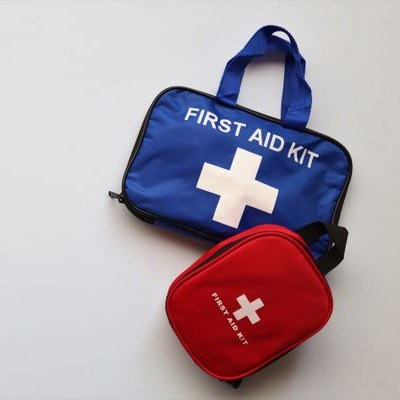
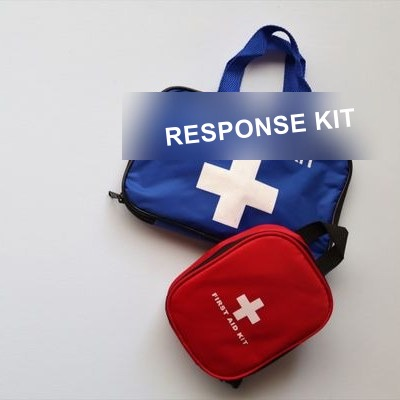
Switch landing/wheel headlines to bold sans, fix prize photo labels
Headlines across the landing page and prize wheel now use the app's own
sans-serif body font at heavy weight instead of the serif display font, to
match the approved reference design. Also corrects the response-kit bag's
printed label (was "First Aid Kit") and replaces the AEDSmartX subscription
photo, which had garbled AI-generated text, with a clean mockup.

Changed region(s): [[0.3, 0.21, 0.93, 0.42]]

diff --git a/app/globals.css b/app/globals.css
@@ -120,7 +120,7 @@ button { font-family: inherit; }
 
 .landing-eyebrow { font-size: .75rem; font-weight: 700; text-transform: uppercase; letter-spacing: .16em; color: var(--structure); }
 .landing-eyebrow.dark { color: var(--structure); }
-.landing-h2 { font-size: clamp(1.65rem, 3.2vw, 2.2rem); margin-top: 8px; letter-spacing: -0.01em; }
+.landing-h2 { font-family: var(--font-body); font-weight: 800; font-size: clamp(1.65rem, 3.2vw, 2.2rem); margin-top: 8px; letter-spacing: -0.02em; }
 .landing-section-inner { max-width: 1240px; margin: 0 auto; padding: 84px clamp(18px, 4vw, 48px); text-align: center; }
 
 /* ---------- Landing: sticky header ---------- */
@@ -156,7 +156,7 @@ button { font-family: inherit; }
   gap: clamp(32px, 4vw, 64px); padding: clamp(44px, 6vw, 88px) clamp(18px, 4vw, 48px) clamp(40px, 5vw, 72px);
 }
 .landing-hero-copy { flex: 1 1 460px; min-width: 0; text-align: left; }
-.landing-h1 { font-size: clamp(2.2rem, 5.4vw, 4.5rem); line-height: 1.04; max-width: 17ch; margin-top: 20px; color: var(--ink); letter-spacing: -0.02em; }
+.landing-h1 { font-family: var(--font-body); font-weight: 800; font-size: clamp(2.2rem, 5.4vw, 4.5rem); line-height: 1.04; max-width: 17ch; margin-top: 20px; color: var(--ink); letter-spacing: -0.02em; }
 .landing-lead { color: var(--ink-soft); font-size: 1.1rem; max-width: 52ch; margin: 22px 0 0; line-height: 1.65; }
 .landing-hero-cta-row { display: flex; flex-wrap: wrap; align-items: center; gap: 16px; margin: 30px 0 0; }
 .landing-hero-microcopy { font-size: .88rem; line-height: 1.4; color: var(--ink-soft); }
@@ -186,7 +186,7 @@ button { font-family: inherit; }
 .landing-gift-card-head { display: flex; align-items: center; justify-content: space-between; gap: 12px; }
 .landing-gift-card-label { font-size: .72rem; font-weight: 700; letter-spacing: .14em; text-transform: uppercase; color: var(--accent-deep); }
 .landing-gift-card-meta { font-size: .72rem; font-weight: 600; color: var(--ink-soft); font-variant-numeric: tabular-nums; }
-.landing-gift-card-tagline { font-family: var(--font-display); font-size: 1.35rem; line-height: 1.35; text-align: center; margin: 20px 0 0; color: var(--ink); }
+.landing-gift-card-tagline { font-family: var(--font-body); font-weight: 800; font-size: 1.35rem; line-height: 1.35; letter-spacing: -0.01em; text-align: center; margin: 20px 0 0; color: var(--ink); }
 .landing-gift-card-thumbs { display: flex; justify-content: center; gap: 8px; margin: 18px 0 0; }
 .landing-gift-card-thumbs img { width: 52px; height: 52px; object-fit: cover; border-radius: 12px; border: 1px solid var(--line); }
 .landing-gift-card-footer {
@@ -265,7 +265,7 @@ button { font-family: inherit; }
   display: inline-grid; place-items: center; width: 40px; height: 40px; border-radius: 12px;
   background: var(--structure-tint); color: var(--structure); font-weight: 700; font-size: .94rem; font-variant-numeric: tabular-nums;
 }
-.landing-how-step h3 { font-family: var(--font-display); font-weight: 500; font-size: 1.35rem; line-height: 1.3; margin: 18px 0 0; }
+.landing-how-step h3 { font-family: var(--font-body); font-weight: 800; font-size: 1.2rem; line-height: 1.3; letter-spacing: -0.01em; margin: 18px 0 0; }
 .landing-how-step p { color: var(--ink-soft); font-size: .92rem; line-height: 1.6; margin: 10px 0 0; }
 /* Step 3 doubles as the gift teaser — same shell as its siblings, warmed
    with the accent tint and a small "Your gift" flag, rather than a
@@ -313,7 +313,7 @@ button { font-family: inherit; }
   display: inline-grid; place-items: center; width: 40px; height: 40px; border-radius: 12px;
   background: var(--accent-tint); color: var(--accent-deep); font-weight: 700; font-size: .94rem; font-variant-numeric: tabular-nums;
 }
-.landing-card h3 { font-family: var(--font-display); font-weight: 500; font-size: 1.3rem; line-height: 1.3; margin: 18px 0 0; }
+.landing-card h3 { font-family: var(--font-body); font-weight: 800; font-size: 1.15rem; line-height: 1.3; letter-spacing: -0.01em; margin: 18px 0 0; }
 .landing-card p { color: var(--ink-soft); font-size: .92rem; line-height: 1.6; margin: 10px 0 0; }
 
 /* ---------- Landing: closing CTA (copy + gift-voucher ticket) ---------- */
@@ -346,7 +346,7 @@ button { font-family: inherit; }
   font-size: .68rem; font-weight: 700; color: #fff; background: var(--accent); padding: 3px 9px; border-radius: 999px;
   font-variant-numeric: tabular-nums;
 }
-.landing-voucher-title { font-family: var(--font-display); font-size: 1.6rem; line-height: 1.3; margin: 12px 0 0; color: var(--ink); }
+.landing-voucher-title { font-family: var(--font-body); font-weight: 800; font-size: 1.4rem; line-height: 1.3; letter-spacing: -0.01em; margin: 12px 0 0; color: var(--ink); }
 /* The rule bleeds edge-to-edge, and the two notches punched into the
    card's own left/right edges at that same height are what sell it as a
    torn-off ticket stub rather than just a card with a dashed line on it —
@@ -495,7 +495,7 @@ button { font-family: inherit; }
   font-size: .72rem; font-weight: 700; letter-spacing: .1em; text-transform: uppercase; color: #ffa457;
 }
 .prize-wheel-heading {
-  font-family: var(--font-display); font-weight: 700; font-size: clamp(1.7rem, 3.4vw, 2.2rem); line-height: 1.1;
+  font-family: var(--font-body); font-weight: 800; font-size: clamp(1.7rem, 3.4vw, 2.2rem); line-height: 1.1;
   letter-spacing: -0.02em; margin: 18px 0 0; color: #fbfcfd;
 }
 .prize-wheel-blurb { color: #9aa2ae; font-size: .94rem; line-height: 1.6; margin: 14px 0 0; max-width: 38ch; }
@@ -506,7 +506,7 @@ button { font-family: inherit; }
   background: rgba(255, 255, 255, 0.04); border: 1px solid rgba(255, 255, 255, 0.07);
   font-size: .88rem; font-weight: 600; color: #dfe3e9;
 }
-.prize-wheel-list-num { font-family: var(--font-display); font-weight: 700; font-size: .78rem; color: #ff9440; min-width: 20px; flex-shrink: 0; font-variant-numeric: tabular-nums; }
+.prize-wheel-list-num { font-family: var(--font-body); font-weight: 800; font-size: .78rem; color: #ff9440; min-width: 20px; flex-shrink: 0; font-variant-numeric: tabular-nums; }
 
 /* Replaces the prize list once the wheel stops — mirrors the list's own
    card treatment (same radius/border language) so the swap doesn't read
@@ -521,7 +521,7 @@ button { font-family: inherit; }
 .prize-wheel-result-eyebrow {
   display: block; font-size: .7rem; font-weight: 700; text-transform: uppercase; letter-spacing: .1em; color: #ffa457;
 }
-.prize-wheel-result-name { font-family: var(--font-display); font-weight: 700; font-size: clamp(1.3rem, 3.4vw, 1.7rem); margin: 8px 0 0; color: #fff; }
+.prize-wheel-result-name { font-family: var(--font-body); font-weight: 800; font-size: clamp(1.3rem, 3.4vw, 1.7rem); letter-spacing: -0.01em; margin: 8px 0 0; color: #fff; }
 .prize-wheel-result-note { font-size: .88rem; line-height: 1.5; color: #b6bcc6; margin: 8px 0 0; }
 
 .prize-wheel-actions { width: 100%; margin-top: 26px; }
